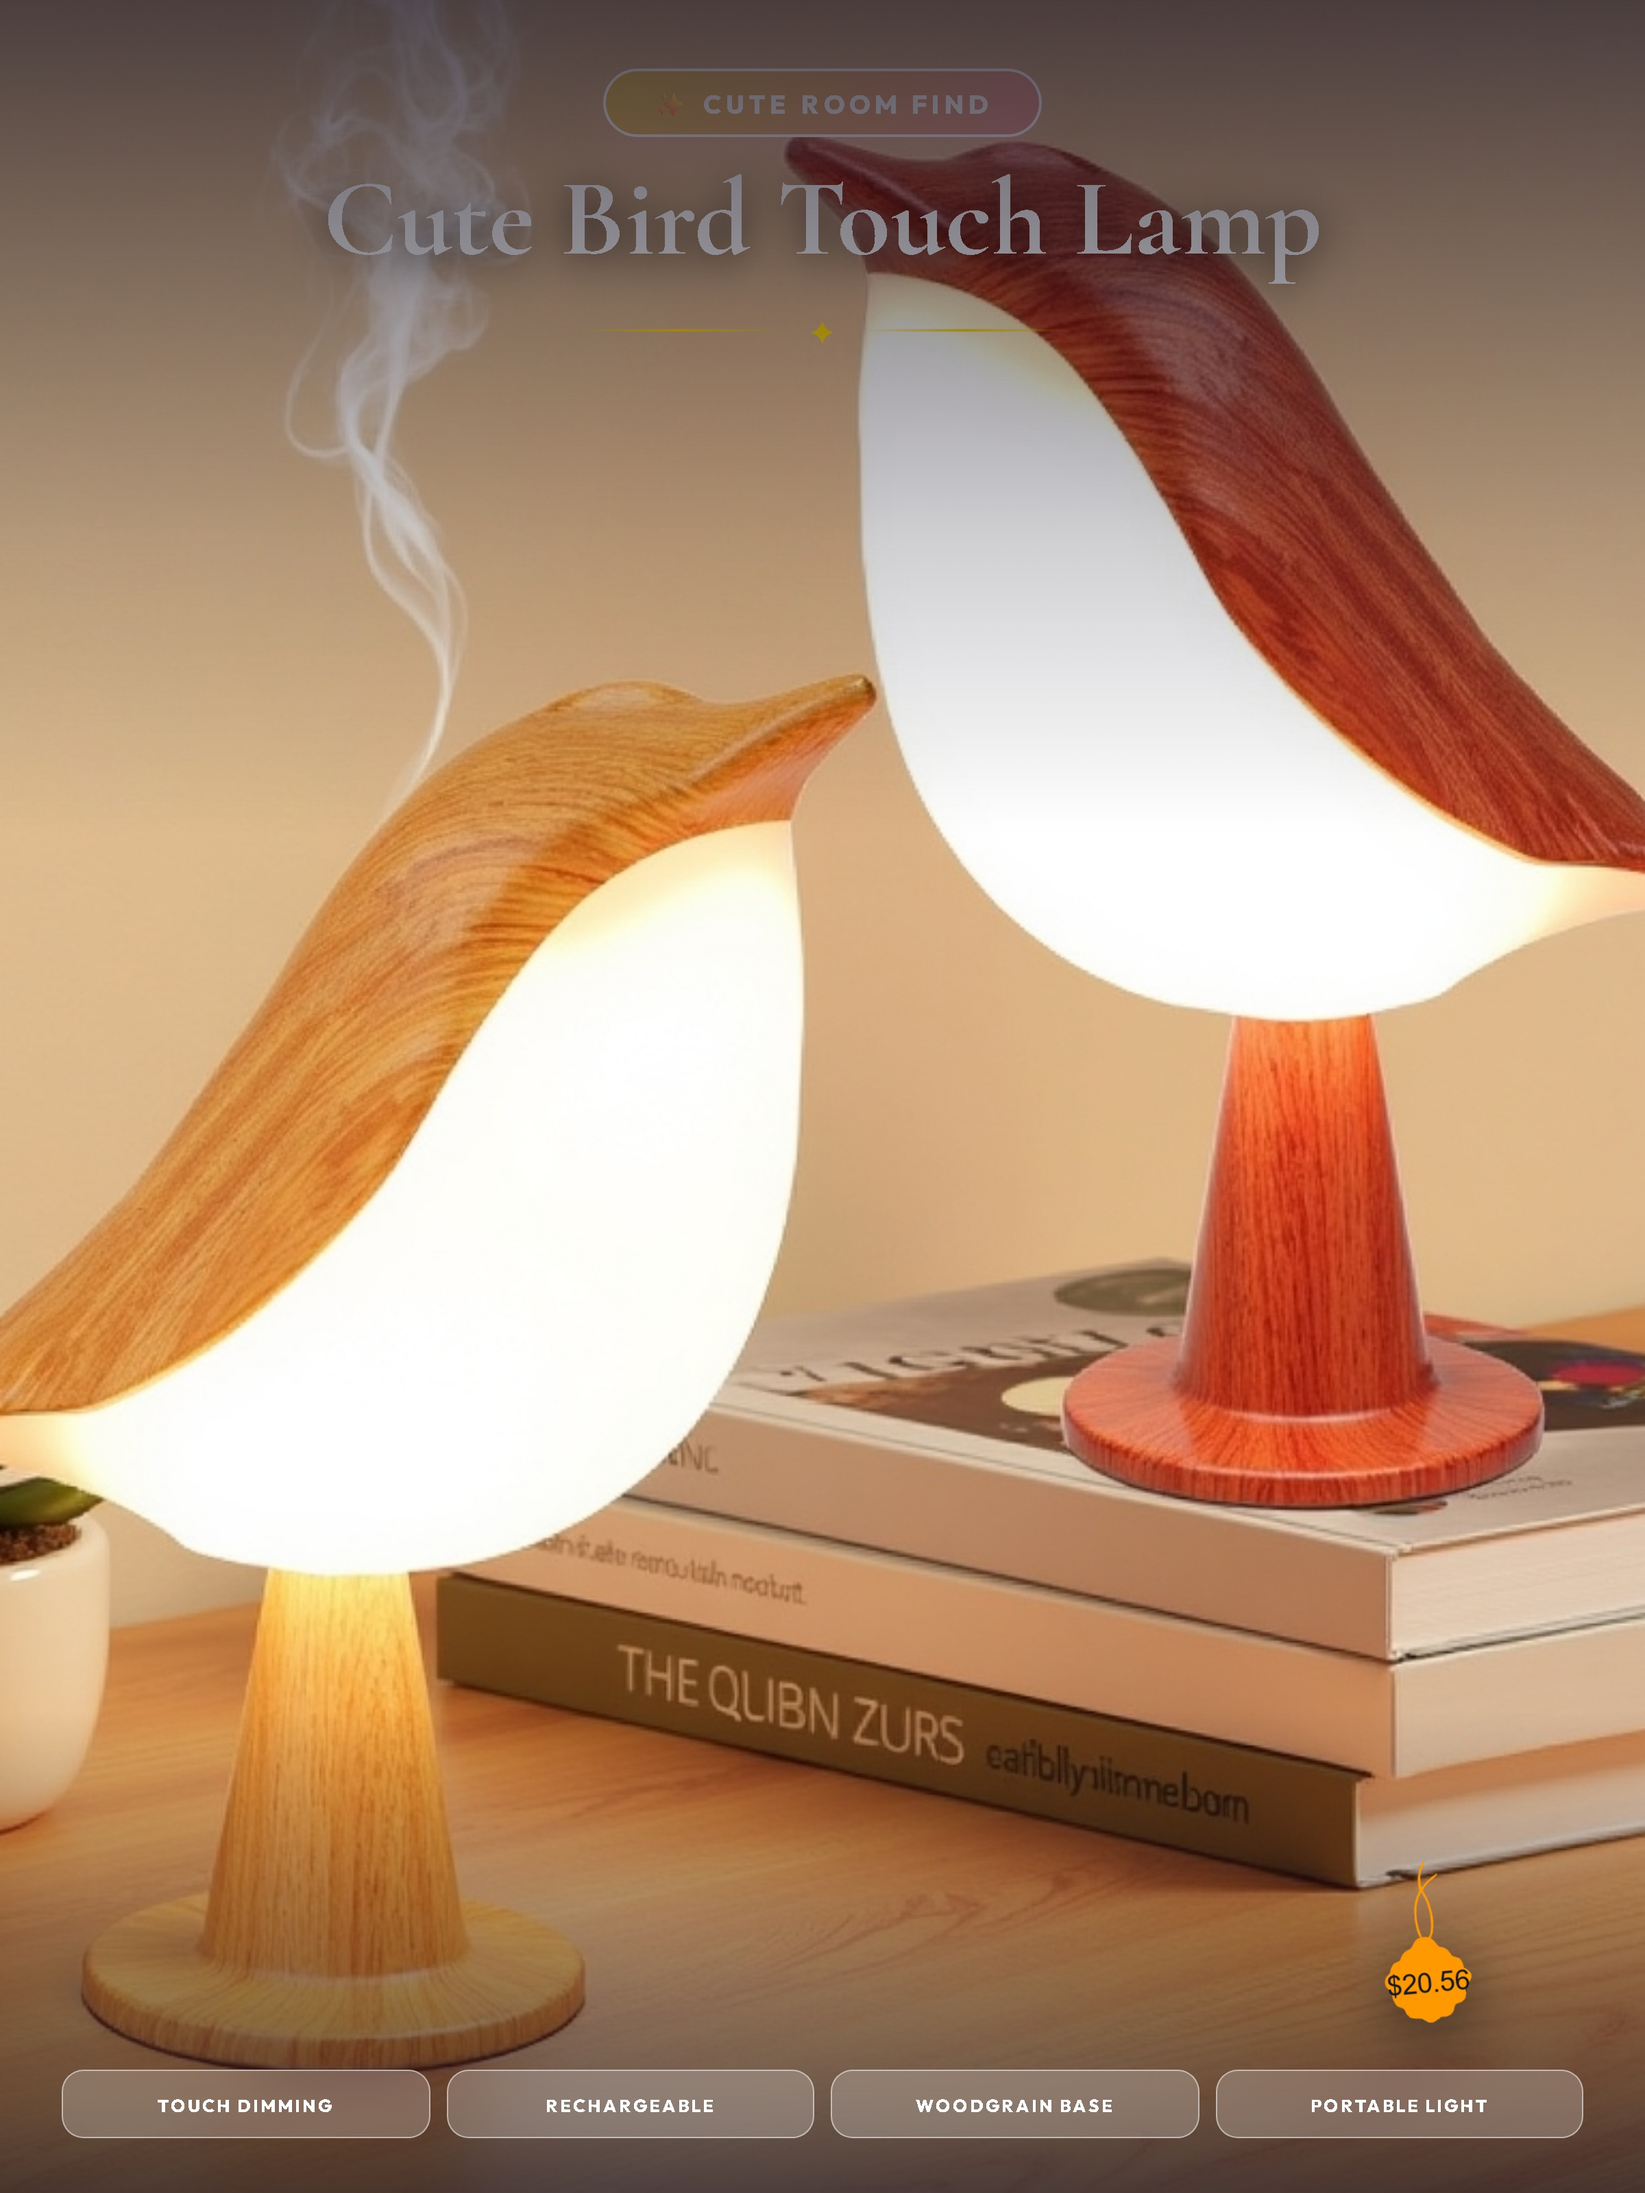
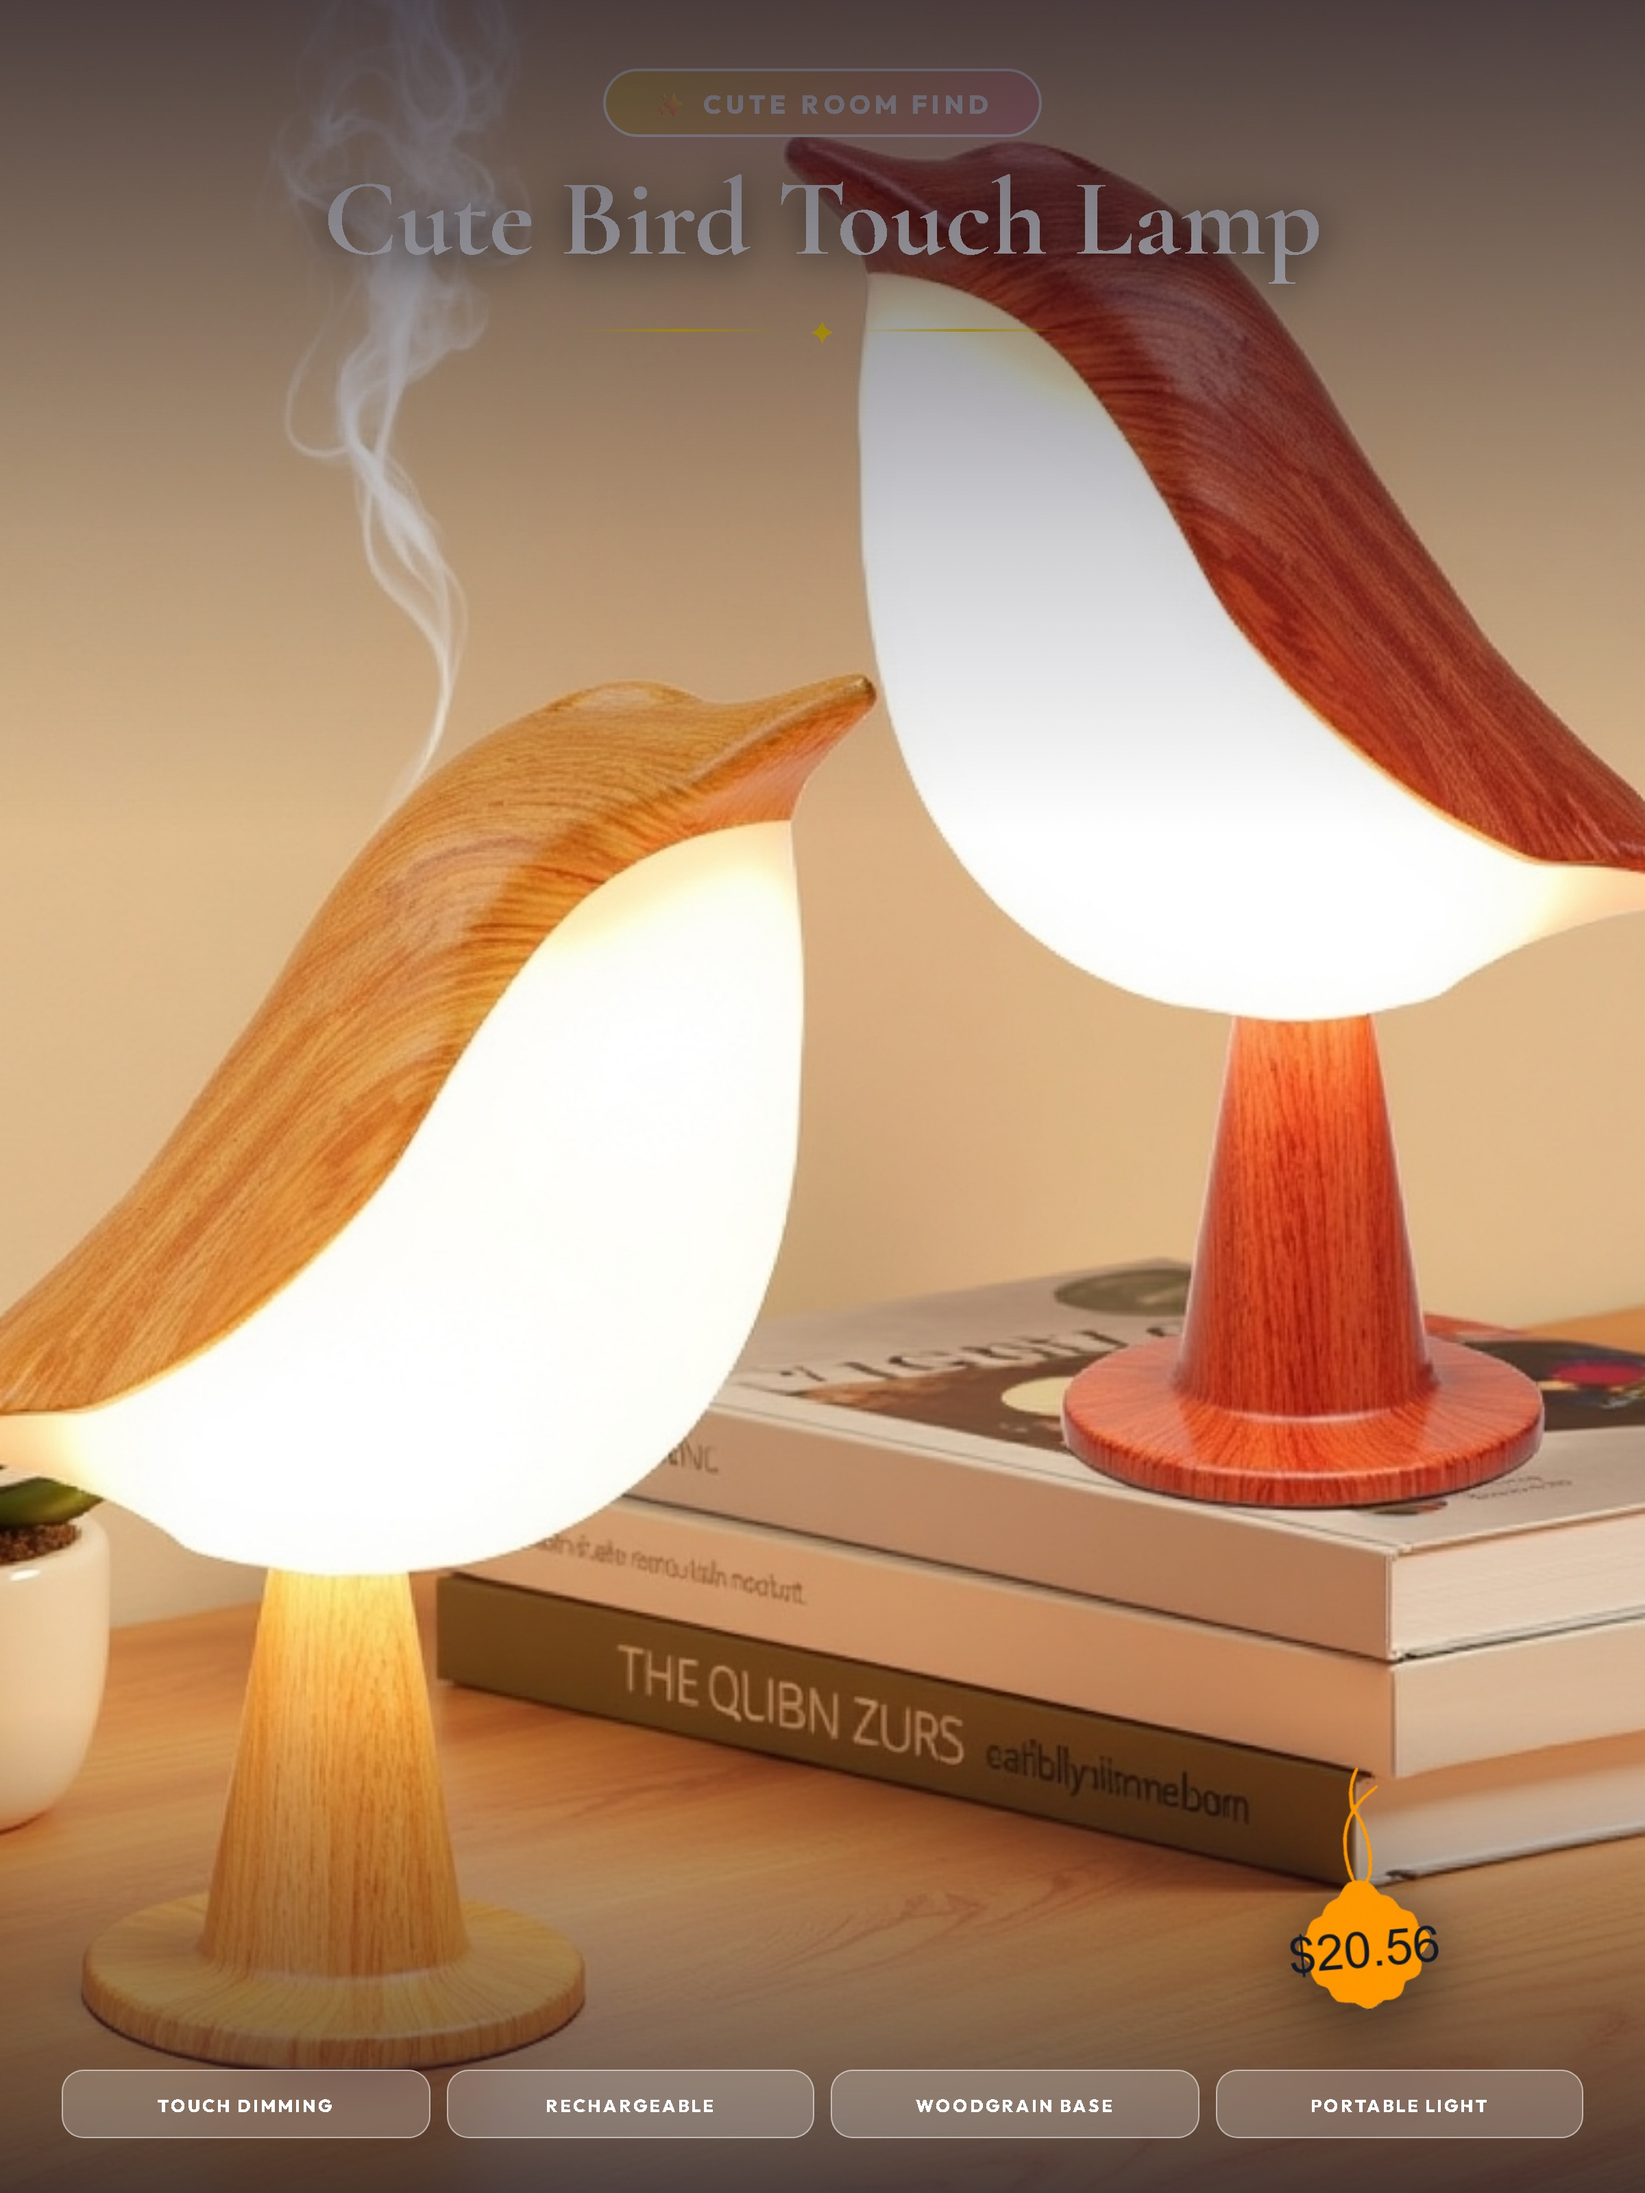
fix: increased price tag container size to 320x240px and font scale to 38% for prominent high-contrast pricing

Changed region(s): [[0.7812, 0.8125, 0.9062, 0.9375]]

diff --git a/modules/html_overlay_engine.py b/modules/html_overlay_engine.py
@@ -205,7 +205,7 @@ def stamp_price_onto_tag_image(tag_path: str, price_str: str, tag_bg_hex: str = 
             center_y = h // 2
             card_width = w
             
-        font_size = int(card_width * 0.32)
+        font_size = int(card_width * 0.38)
         try:
             font = ImageFont.truetype("arial.ttf", font_size)
         except Exception:
@@ -313,7 +313,7 @@ def render_html_overlay(
         stamped_tag_file = stamp_price_onto_tag_image(str(custom_tag_path), price_clean, tag_bg_hex=tag_accent_hex)
         tag_abs_url = Path(stamped_tag_file).resolve().as_uri()
         price_pill_html = f"""
-        <div class="custom-price-container" style="position: relative; width: 220px; height: 160px; display: flex; align-items: center; justify-content: center; transform: rotate(-5deg); filter: drop-shadow(0 12px 24px rgba(0, 0, 0, 0.6));">
+        <div class="custom-price-container" style="position: relative; width: 320px; height: 240px; display: flex; align-items: center; justify-content: center; transform: rotate(-5deg); filter: drop-shadow(0 14px 28px rgba(0, 0, 0, 0.6));">
             <img src="{tag_abs_url}" style="width: 100%; height: 100%; object-fit: contain;" />
         </div>
         """
